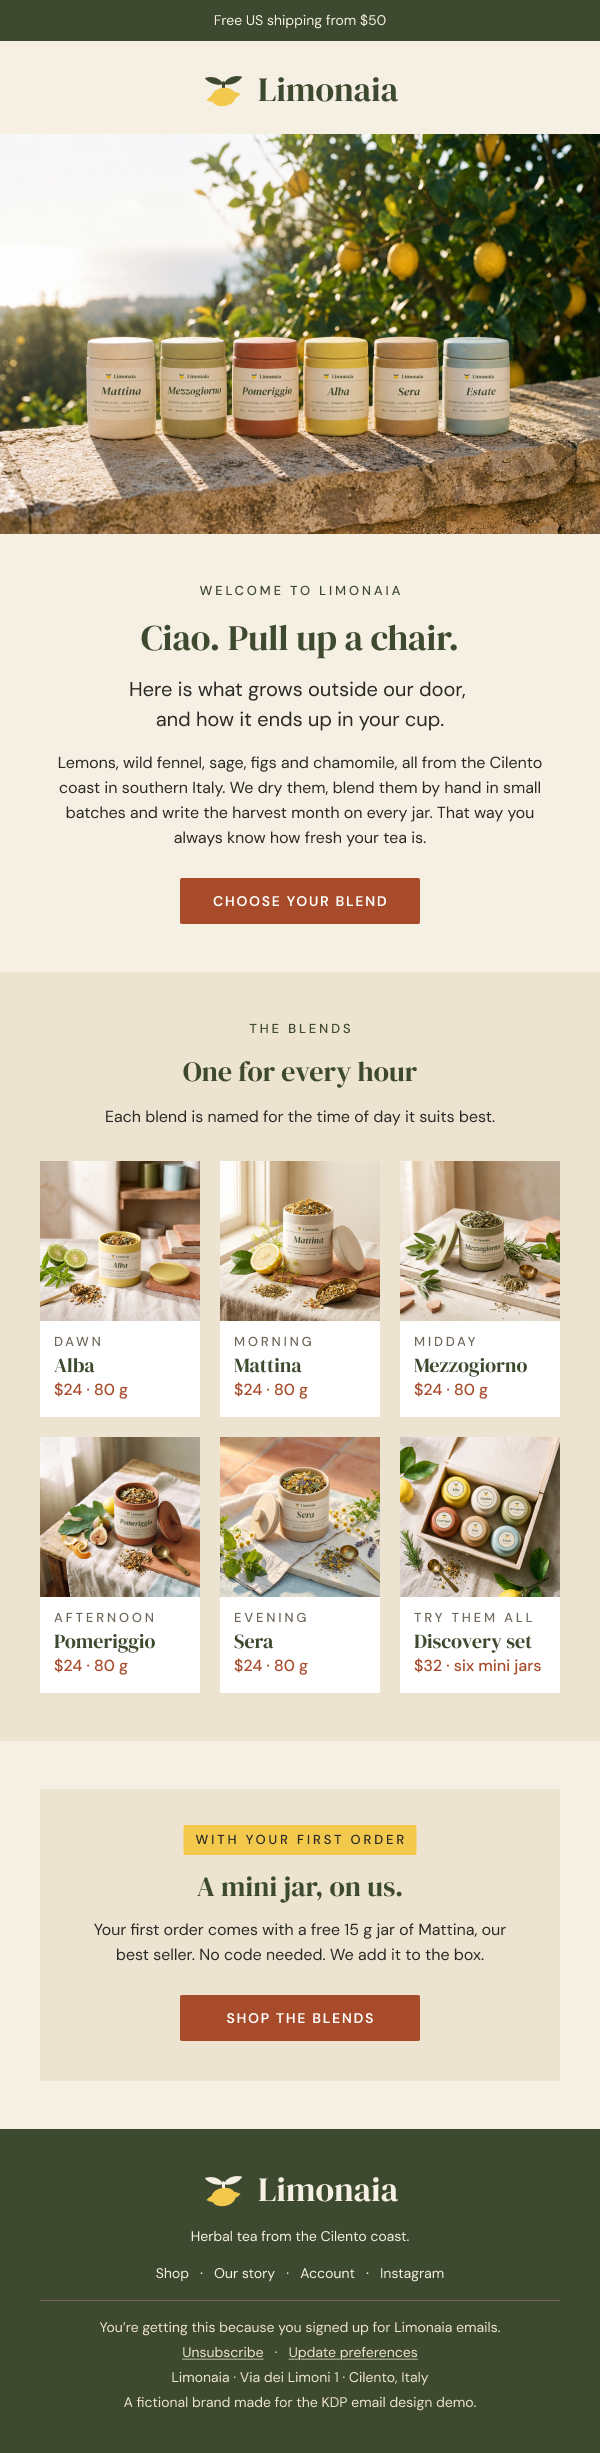
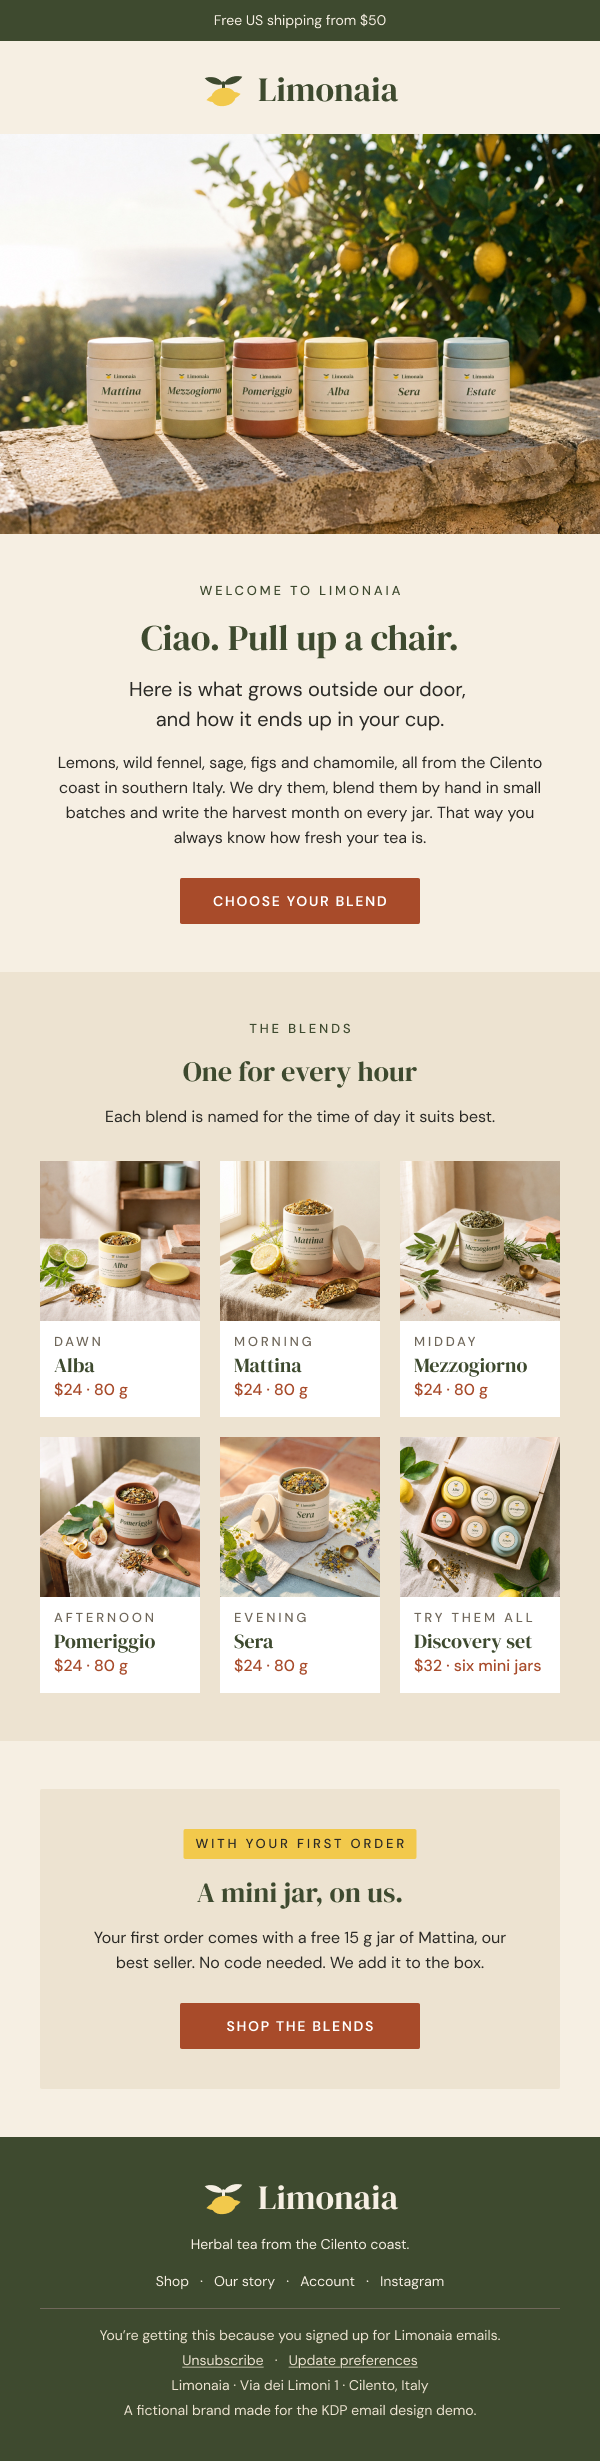
Even out component spacing; audit finds briefs past a mobile frame
- Section components share one spacing scale: 16 px between lines of
  copy and 28 px to the button on desktop, 12 and 24 on mobile, 8 inside
  a step. Written into the Limonaia EMAIL.md and corrections log.
- Audit: look up to 900 px right of an email for its brief, so a mobile
  frame between them doesn't hide it.
- Re-exported the email screenshots, overview and brand kit boards 09-11.

diff --git a/skills/figma-email-readiness/scripts/audit.js b/skills/figma-email-readiness/scripts/audit.js
@@ -148,7 +148,7 @@ for (const { page, node: e, tops } of R.emails) {
     const O = box(o);
     const overlapX = O.x < ex1 && O.x + O.width > ex0;
     const above = overlapX && O.y + O.height <= ey + 10 && O.y >= ey - 700;
-    const beside = O.x >= ex1 - 10 && O.x <= ex1 + 400 && O.y < ey + E.height && O.y + O.height > ey;
+    const beside = O.x >= ex1 - 10 && O.x <= ex1 + 900 && O.y < ey + E.height && O.y + O.height > ey; // 900 leaves room for a mobile frame between the email and its brief
     if (!above && !beside) continue;
     const t = textOf(o);
     if (above && (o.type === 'WIDGET' || /status/i.test(o.name))) hasStatus = true;

diff --git a/examples/limonaia/EMAIL.md b/examples/limonaia/EMAIL.md
@@ -142,7 +142,11 @@ transparent and takes the email's cream, so two of them next to each other share
 ## Layout
 
 **Desktop (600 px)**
-- Sections are 48 px top and bottom and 40 px at the sides, with 16 px between items.
+- Sections are 48 px top and bottom and 40 px at the sides.
+- Inside a section: 16 px between lines of copy (eyebrow, heading, lead, body, price), 28 px
+  from the copy to its button, 24 px from a heading or image to the row beside or below it.
+- Inside a step: 8 px. Inside a tile, chooser row or cart line: 2 px, so a product reads as one
+  unit.
 - When two sections next to each other share a background, the second drops its top padding.
 - Standalone buttons are 240 px wide, 28 px below their copy. Card buttons fill the card.
   Chooser-row buttons hug their label.
@@ -150,6 +154,8 @@ transparent and takes the email's cream, so two of them next to each other share
 
 **Mobile (375 px)**
 - 20 px side margins (a 335 px column), 40 px top and bottom.
+- Inside a section: 12 px between lines of copy, 24 px from the copy to its button, 20 px from a
+  heading or image to what follows. Steps keep 8 px.
 - Columns stack:
   - Tiles go two across, 15 px apart.
   - Image and text stacks with the image on top.

diff --git a/examples/limonaia/corrections.md b/examples/limonaia/corrections.md
@@ -62,6 +62,9 @@ haven't come back.
 - **Layer names.** Every text layer in a component is named for its role (Time, Name, Price,
   Label), never left as a copy of the first example's text.
 - **Footer copy (cold test).** The desktop and mobile footers carry the same words.
+- **Inner spacing (cold test).** Every section component uses one scale: 16 px between lines of
+  copy and 28 px to the button on desktop, 12 and 24 on mobile, 8 inside a step. Image and text,
+  the callout box and the steps had drifted to 8, 14 and 4.
 
 ## Brand notes
 
